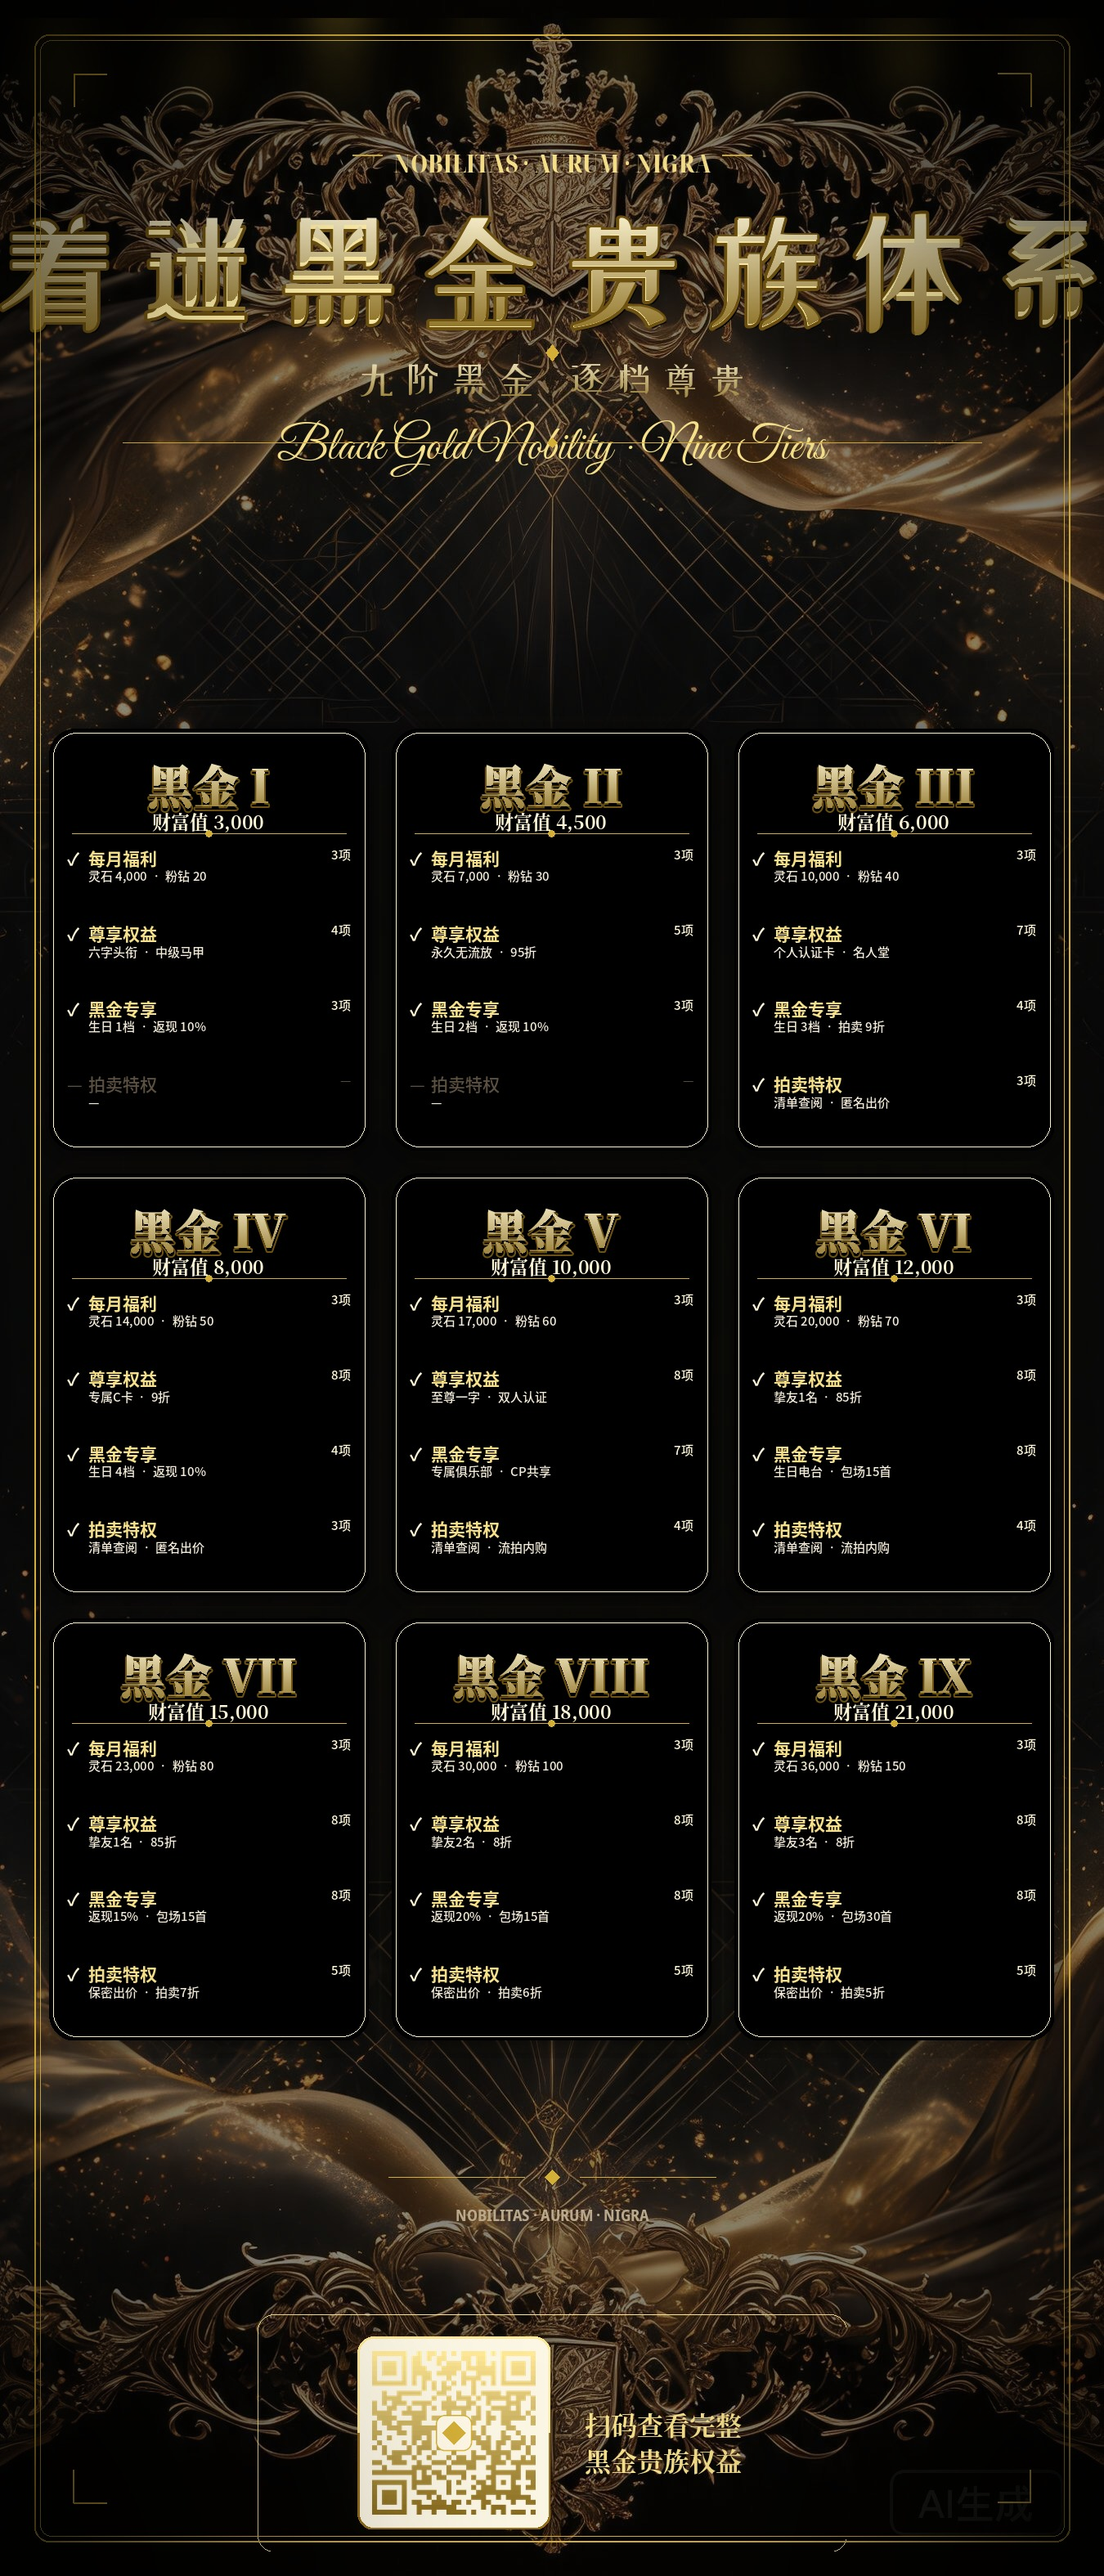
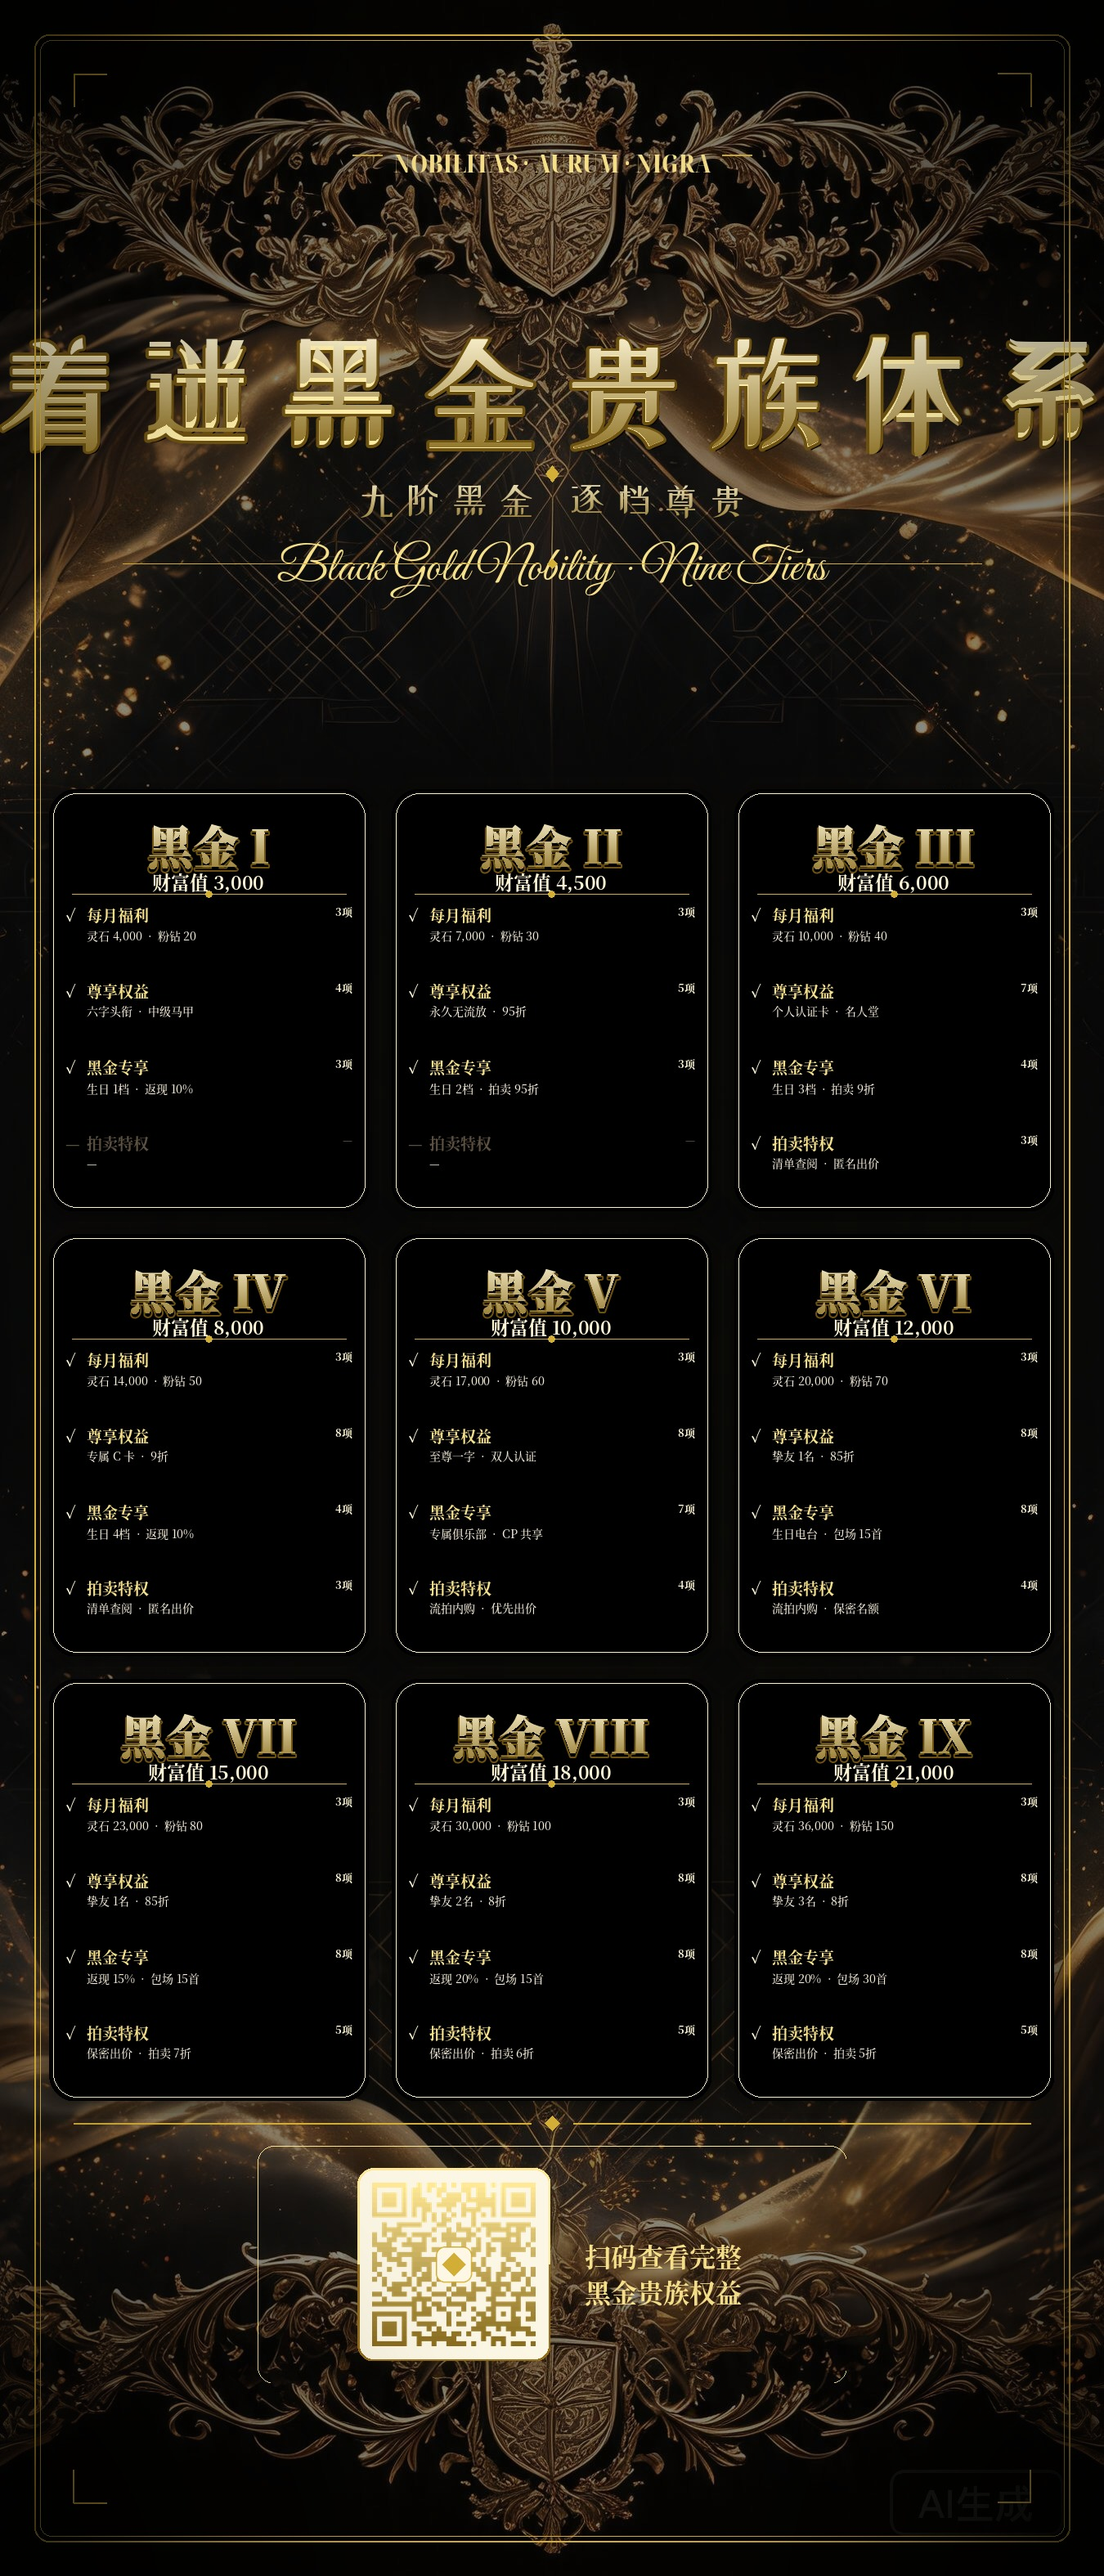
海报:标题下移200px;二维码上移(距底236px);卡片与二维码间加金色分割线;卡片权益重选(每档新增/升级项);统一圆润CJK字体饱满分布

diff --git a/make_poster.py b/make_poster.py
@@ -114,7 +114,7 @@ draw.line([(CX+ew//2+14,ey_y+eh//2),(CX+ew//2+50,ey_y+eh//2)],fill=(212,175,55,2
 
 title='着迷黑金贵族体系'
 tf=ART(156,'xiaowei')   # 站酷小薇艺术字体（加大）
-ty=ey_y+eh+52            # 再下移，向下分布
+ty=ey_y+eh+200           # 再下移两个行高位置
 SPACING=14
 title_w=sum(tsize(ch,tf)[0] for ch in title)+SPACING*(len(title)-1)
 tx0=CX-title_w//2
@@ -179,6 +179,7 @@ draw.polygon([(CX,dy-6),(CX+6,dy),(CX,dy+6),(CX-6,dy)],fill=(212,175,55,220))
 
 # ===== 九档卡片（3x3）=====
 # 每档按四大类提炼：(项数, [代表权益1, 代表权益2])
+# 原则：每档尽量选上一档没有的、或数值比上一档更高的权益
 TIERS=[
   {'id':'I','wealth':3000,'group':'初阶',
    'cats':[('每月福利',3,['灵石 4,000','粉钻 20']),
@@ -188,7 +189,7 @@ TIERS=[
   {'id':'II','wealth':4500,'group':'初阶',
    'cats':[('每月福利',3,['灵石 7,000','粉钻 30']),
            ('尊享权益',5,['永久无流放','95折']),
-           ('黑金专享',3,['生日 2档','返现 10%']),
+           ('黑金专享',3,['生日 2档','拍卖 95折']),
            ('拍卖特权',0,['—'])]},
   {'id':'III','wealth':6000,'group':'中阶',
    'cats':[('每月福利',3,['灵石 10,000','粉钻 40']),
@@ -197,37 +198,37 @@ TIERS=[
            ('拍卖特权',3,['清单查阅','匿名出价'])]},
   {'id':'IV','wealth':8000,'group':'中阶',
    'cats':[('每月福利',3,['灵石 14,000','粉钻 50']),
-           ('尊享权益',8,['专属C卡','9折']),
+           ('尊享权益',8,['专属 C 卡','9折']),
            ('黑金专享',4,['生日 4档','返现 10%']),
            ('拍卖特权',3,['清单查阅','匿名出价'])]},
   {'id':'V','wealth':10000,'group':'高级',
    'cats':[('每月福利',3,['灵石 17,000','粉钻 60']),
            ('尊享权益',8,['至尊一字','双人认证']),
-           ('黑金专享',7,['专属俱乐部','CP共享']),
-           ('拍卖特权',4,['清单查阅','流拍内购'])]},
+           ('黑金专享',7,['专属俱乐部','CP 共享']),
+           ('拍卖特权',4,['流拍内购','优先出价'])]},
   {'id':'VI','wealth':12000,'group':'高级',
    'cats':[('每月福利',3,['灵石 20,000','粉钻 70']),
-           ('尊享权益',8,['挚友1名','85折']),
-           ('黑金专享',8,['生日电台','包场15首']),
-           ('拍卖特权',4,['清单查阅','流拍内购'])]},
+           ('尊享权益',8,['挚友 1名','85折']),
+           ('黑金专享',8,['生日电台','包场 15首']),
+           ('拍卖特权',4,['流拍内购','保密名额'])]},
   {'id':'VII','wealth':15000,'group':'高级',
    'cats':[('每月福利',3,['灵石 23,000','粉钻 80']),
-           ('尊享权益',8,['挚友1名','85折']),
-           ('黑金专享',8,['返现15%','包场15首']),
-           ('拍卖特权',5,['保密出价','拍卖7折'])]},
+           ('尊享权益',8,['挚友 1名','85折']),
+           ('黑金专享',8,['返现 15%','包场 15首']),
+           ('拍卖特权',5,['保密出价','拍卖 7折'])]},
   {'id':'VIII','wealth':18000,'group':'至尊',
    'cats':[('每月福利',3,['灵石 30,000','粉钻 100']),
-           ('尊享权益',8,['挚友2名','8折']),
-           ('黑金专享',8,['返现20%','包场15首']),
-           ('拍卖特权',5,['保密出价','拍卖6折'])]},
+           ('尊享权益',8,['挚友 2名','8折']),
+           ('黑金专享',8,['返现 20%','包场 15首']),
+           ('拍卖特权',5,['保密出价','拍卖 6折'])]},
   {'id':'IX','wealth':21000,'group':'至尊',
    'cats':[('每月福利',3,['灵石 36,000','粉钻 150']),
-           ('尊享权益',8,['挚友3名','8折']),
-           ('黑金专享',8,['返现20%','包场30首']),
-           ('拍卖特权',5,['保密出价','拍卖5折'])]},
+           ('尊享权益',8,['挚友 3名','8折']),
+           ('黑金专享',8,['返现 20%','包场 30首']),
+           ('拍卖特权',5,['保密出价','拍卖 5折'])]},
 ]
 
-# 卡片几何（卡片网格在标题与二维码之间垂直居中）
+# 卡片几何（卡片网格在标题与二维码之间垂直居中，二维码贴近卡片下方）
 COLS=3; ROWS=3
 MARGIN_X=60
 GAP=28
@@ -236,10 +237,11 @@ CARD_H=516
 GRID_H=ROWS*CARD_H+(ROWS-1)*GAP
 HEADER_BOTTOM=dy+16
 QR_PANEL_H=290
-QR_BOTTOM_MARGIN=30
-QR_TOP=H-QR_PANEL_H-QR_BOTTOM_MARGIN
-GRID_TOP=HEADER_BOTTOM+((QR_TOP-HEADER_BOTTOM)-GRID_H)//2
+# 先用底部估算位计算网格居中，再把二维码上移贴近卡片
+_QR_EST=H-QR_PANEL_H-30
+GRID_TOP=HEADER_BOTTOM+((_QR_EST-HEADER_BOTTOM)-GRID_H)//2
 GRID_BOTTOM=GRID_TOP+GRID_H
+QR_TOP=GRID_BOTTOM+55          # 二维码上移，紧贴卡片下方
 
 def card_pos(i):
     r,c=divmod(i,COLS)
@@ -353,38 +355,39 @@ for i,t in enumerate(TIERS):
     draw.line([(x+28,divy),(x+CARD_W-28,divy)],fill=(212,175,55,140),width=1)
     draw.ellipse([(cx-4,divy-4),(cx+4,divy+4)],fill=(212,175,55,220))
 
-    # 四大类权益（均匀分布）
+    # 四大类权益（均匀分布、统一圆润字体、饱满）
     cat_count=len(t['cats'])
-    avail_h=y+CARD_H-divy-20
+    avail_h=y+CARD_H-divy-16
     per_h=avail_h//cat_count
-    by2=divy+14
+    cat_font=CJK(19,'Bold')      # 大类名统一圆润字体
+    cnt_font=CJK(13,'Bold')      # 项数
+    rep_font=CJK(14,'Medium')    # 代表权益
+    chk_font=CJK(19,'Bold')      # 对勾
     for ci,(cat_name,count,reps) in enumerate(t['cats']):
-        cy=divy+14+ci*per_h
-        # 大类行：✓ 大类名 (N项)
+        cy=divy+12+ci*per_h
+        # 大类行
         if count>0:
-            txt(x+22,cy,'✓',SANS(21,'Bold'),GOLD_HI,'la')
-            txt(x+48,cy,cat_name,SANS(21,'Bold'),GOLD,'la')
-            txt(x+CARD_W-22,cy,f'{count}项',SANS(15,'Medium'),GOLD_HI,'ra')
+            txt(x+20,cy,'✓',chk_font,GOLD_HI,'la')
+            txt(x+46,cy,cat_name,cat_font,GOLD,'la')
+            txt(x+CARD_W-20,cy,f'{count}项',cnt_font,GOLD_HI,'ra')
         else:
-            txt(x+22,cy,'—',SANS(21,'Regular'),DIM,'la')
-            txt(x+48,cy,cat_name,SANS(21,'Medium'),DIM,'la')
-            txt(x+CARD_W-22,cy,'—',SANS(15,'Regular'),DIM,'ra')
-        _,bh1=tsize(cat_name,SANS(21,'Bold'))
-        # 代表权益（小字）
+            txt(x+20,cy,'—',chk_font,DIM,'la')
+            txt(x+46,cy,cat_name,cat_font,DIM,'la')
+            txt(x+CARD_W-20,cy,'—',cnt_font,DIM,'ra')
+        _,bh1=tsize(cat_name,cat_font)
+        # 代表权益（两行，饱满分布）
         rep='  ·  '.join(reps)
-        txt(x+48,cy+bh1+5,rep,SANS(15,'Medium'),CREAM,'la',shadow=True)
+        txt(x+46,cy+bh1+7,rep,rep_font,CREAM,'la',shadow=True)
 
 # ===== 底部二维码区域 =====
 qr_panel_h=QR_PANEL_H
 qr_top=QR_TOP
 
-# ===== 装饰分隔（卡片与二维码之间）=====
-mid_y=(GRID_BOTTOM+qr_top)//2
-draw.line([(CX-200,mid_y),(CX-34,mid_y)],fill=(212,175,55,150),width=1)
-draw.line([(CX+34,mid_y),(CX+200,mid_y)],fill=(212,175,55,150),width=1)
-draw.polygon([(CX,mid_y-9),(CX+9,mid_y),(CX,mid_y+9),(CX-9,mid_y)],fill=(212,175,55,210))
-motto='NOBILITAS · AURUM · NIGRA'
-txt(CX,mid_y+32,motto,LATIN(20,'sans'),MUTED,'ma')
+# ===== 分割线（卡片与二维码之间）=====
+div_y=GRID_BOTTOM+27
+draw.line([(90,div_y),(CX-26,div_y)],fill=(212,175,55,220),width=2)
+draw.line([(CX+26,div_y),(W-90,div_y)],fill=(212,175,55,220),width=2)
+draw.polygon([(CX,div_y-9),(CX+9,div_y),(CX,div_y+9),(CX-9,div_y)],fill=(212,175,55,240))
 
 # 二维码区域：去掉黑色底框，仅保留极淡金色描边作为结构
 panel_x1,panel_x2=W//2-360,W//2+360
